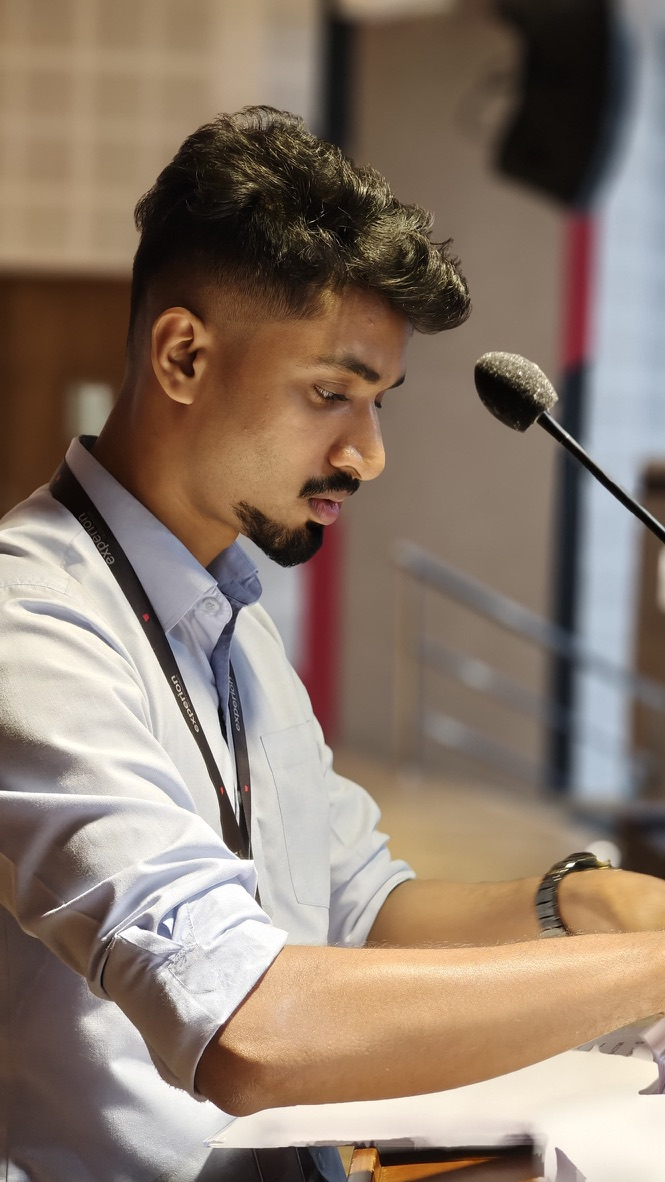
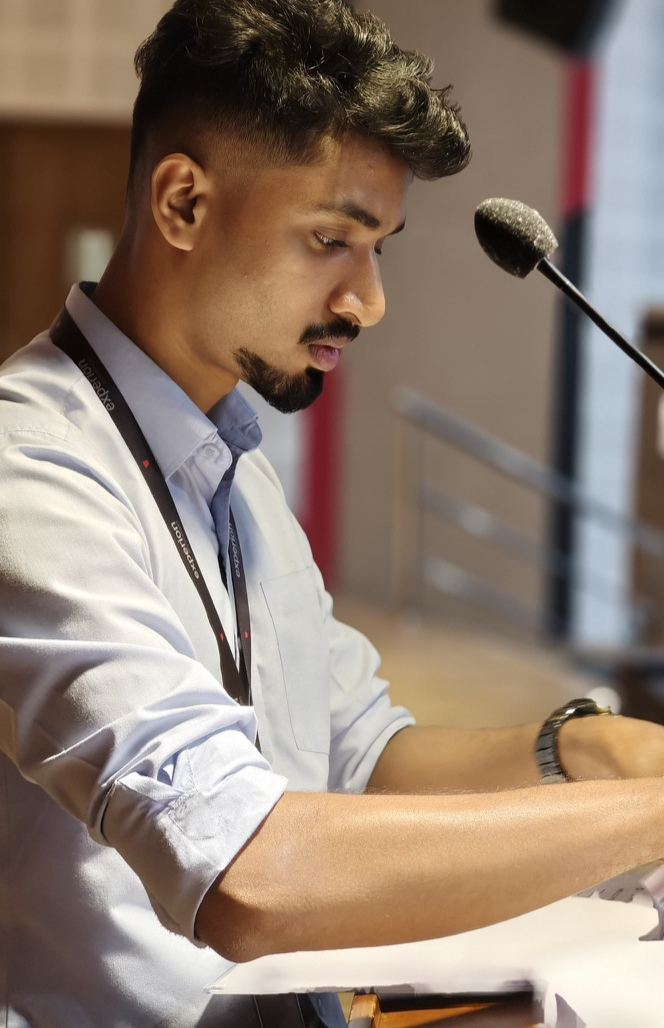
Portfolio - Fix: Adjusted a few details in the website.

diff --git a/src/data/index.js b/src/data/index.js
@@ -45,43 +45,23 @@ export const navLinks = [
 
 const experiences = [
   {
-    title: "YouTube Content Creator",
-    company_name: "Self Employed",
-    date: "2016 - Present",
+    title: "Associate Software Engineer",
+    company_name: "Experion Technologies",
+    date: "Dec 2025 - Present",
     details: [
-      "Built a subscriber base of over <span style='color: white;'>500,000 subscribers</span> by creating video content to help programmers.",
-      "Crafted visually appealling programming videos that have garnered over <span style='color: white;'>30,000,000 views</span>.",
-      "Produced high-quality educational and entertaining videos for clients including <span style='color: white;'>Intel, JetBrains, and MicroCenter</span>.",
+      "Developing and maintaining <span style='color: white;'>enterprise-scale manufacturing software</span> used across multiple production plants in the United States.",
+      "Designing and implementing <span style='color: white;'>.NET backend services, REST APIs, and SQL solutions</span> powering production scheduling and operational workflows.",
+      "Contributing to a <span style='color: white;'>microservices-based platform</span> with CI/CD pipelines, cloud-hosted services, and complex business logic involving 18+ scheduling constraints.",
     ],
   },
   {
-    title: "Software Developer",
-    company_name: "Indie",
-    date: "2019 - 2023",
+    title: "Software Engineer Trainee",
+    company_name: "Experion Technologies",
+    date: "Aug 2025 - Dec 2025",
     details: [
-      "Developed and delivered custom interdisciplinary coding portfolio for clients including <span style='color: white;'>Nvidia, Hostinger, and Amazon</span>.",
-      "<span style='color: white;'>Designed and developed innovative</span> AI applications and interactive websites.",
-      "<span style='color: white;'>Managed full project lifecycle</span> from concept to deployment in successful and timely project completions.",
-    ],
-  },
-  {
-    title: "Software Engineer",
-    company_name: "Prime 3",
-    date: "2018 - 2019",
-    details: [
-      "Built custom enterprise applications for a <span style='color: white;'>Fortune 500 company</span> as a full-stack software engineer.",
-      "Developed and maintained <span style='color: white;'>scalable backend services</span>, ensuring high availability for critical business applications.",
-      "<span style='color: white;'>Collaborated with a team</span> to design and implement front-end interfaces.",
-    ],
-  },
-  {
-    title: "Computer Science",
-    company_name: "ODU",
-    date: "2015 - 2018",
-    details: [
-      "Built a <span style='color: white;'>computer science foundation</span> learning theory, computer architecture, and software engineering.",
-      "Worked and interned at <span style='color: white;'>NASA and Norfolk Southern Railway</span> to gain practical experience in the field of data analysis.",
-      "Acted as a member of the <span style='color: white;'>Association for Computing Machinery</span> (ACM).",
+      "Co-led development of Experion's <span style='color: white;'>award-winning Project Management Tool (PMT)</span>, delivering an AI-enabled MVP within two months.",
+      "Built and integrated features including <span style='color: white;'>Sprint Boards, AI Sprint Planner, Backlog Management, Reports, and Team Collaboration modules</span>.",
+      "Collaborated within a <span style='color: white;'>14-member cross-functional team</span> and contributed to a project that received the company's Best Project Award.",
     ],
   },
 ];
@@ -109,43 +89,43 @@ const portfolio = [
 
 const events = [
   {
-    title: "National Hackathon — Finalist",
+    title: "IEEE Hackathon — Best Project Winner",
     category: "Technical",
-    date: "Oct 2024",
-    description: "Reached the national finals with a real-time logistics optimization tool, competing among 300+ teams across the country.",
+    date: "Jan 2022",
+    description: "Won the best project award for building an intuitive website for writers to aid with their writing, competing among 30+ teams across the country.",
     images: [technical],
     heightClass: "h-[260px]"
   },
   {
-    title: "Tree Plantation Drive",
-    category: "Community",
-    date: "Jul 2024",
-    description: "Co-organized a drive planting 200+ saplings across 3 neighborhoods.",
-    images: [community],
+    title: "Hosting Events",
+    category: "Extra-Curricular",
+    date: "Mar 2026",
+    description: "Coordinated corporate programs and stage events with 1000+ attendees.",
+    images: [creative],
     heightClass: "h-[260px]"
   },
   {
-    title: "Tech Talk — Cloud Arch.",
+    title: "Led a 14 Member Team",
     category: "Leadership",
-    date: "Jan 2025",
-    description: "40-min session on microservices to 80+ students.",
-    images: [leadership],
+    date: "Nov 2025",
+    description: "Led development of Project Management Tool for Experion Technologies with 300+ Projects and 1000+ Users.",
+    images: [BestProject],
     heightClass: "h-[200px]"
   },
   {
-    title: "IEEE Research Paper",
-    category: "Academic",
-    date: "Mar 2025",
-    description: "Published on cloud-native distributed tracing.",
+    title: "Community Marathon",
+    category: "Community",
+    date: "Mar 2026",
+    description: "Participated in a local marathon with theme \"𝐍𝐨 𝐭𝐨 𝐃𝐫𝐮𝐠𝐬, 𝐘𝐞𝐬 𝐭𝐨 𝐅𝐢𝐭𝐧𝐞𝐬𝐬.\" to raise awareness against the use of drugs in the community.",
     images: [academic],
     heightClass: "h-[200px]"
   },
   {
-    title: "Open-Source Project",
-    category: "Creative",
-    date: "May 2025",
-    description: "DevOps toolkit — 500+ stars, 40 contributors.",
-    images: [creative],
+    title: "Borrowings Tracker",
+    category: "Entrepreneurship",
+    date: "May 2026",
+    description: "A simple application to track borrowings and lendings among friends and family, built using React Native and Supabase.",
+    images: [community],
     heightClass: "h-[200px]"
   }
 ];

diff --git a/src/assets/index.js b/src/assets/index.js
@@ -5,9 +5,9 @@ import menu from "./menu.svg";
 import writer from "./writer.png";
 import diet from "./diet.png";
 import lungfraud from "./lungfraud.png";
-import overview from "./overview.jpeg";
-import silos from "./silos.jpeg";
-import truck from "./truck.jpg";
+import overview from "./LeapTeam.jpg";
+import silos from "./silos.png";
+import truck from "./truck.jpeg";
 import BestProject from "./BestProject.jpeg";
 import Executives from "./Executives.jpeg";
 
